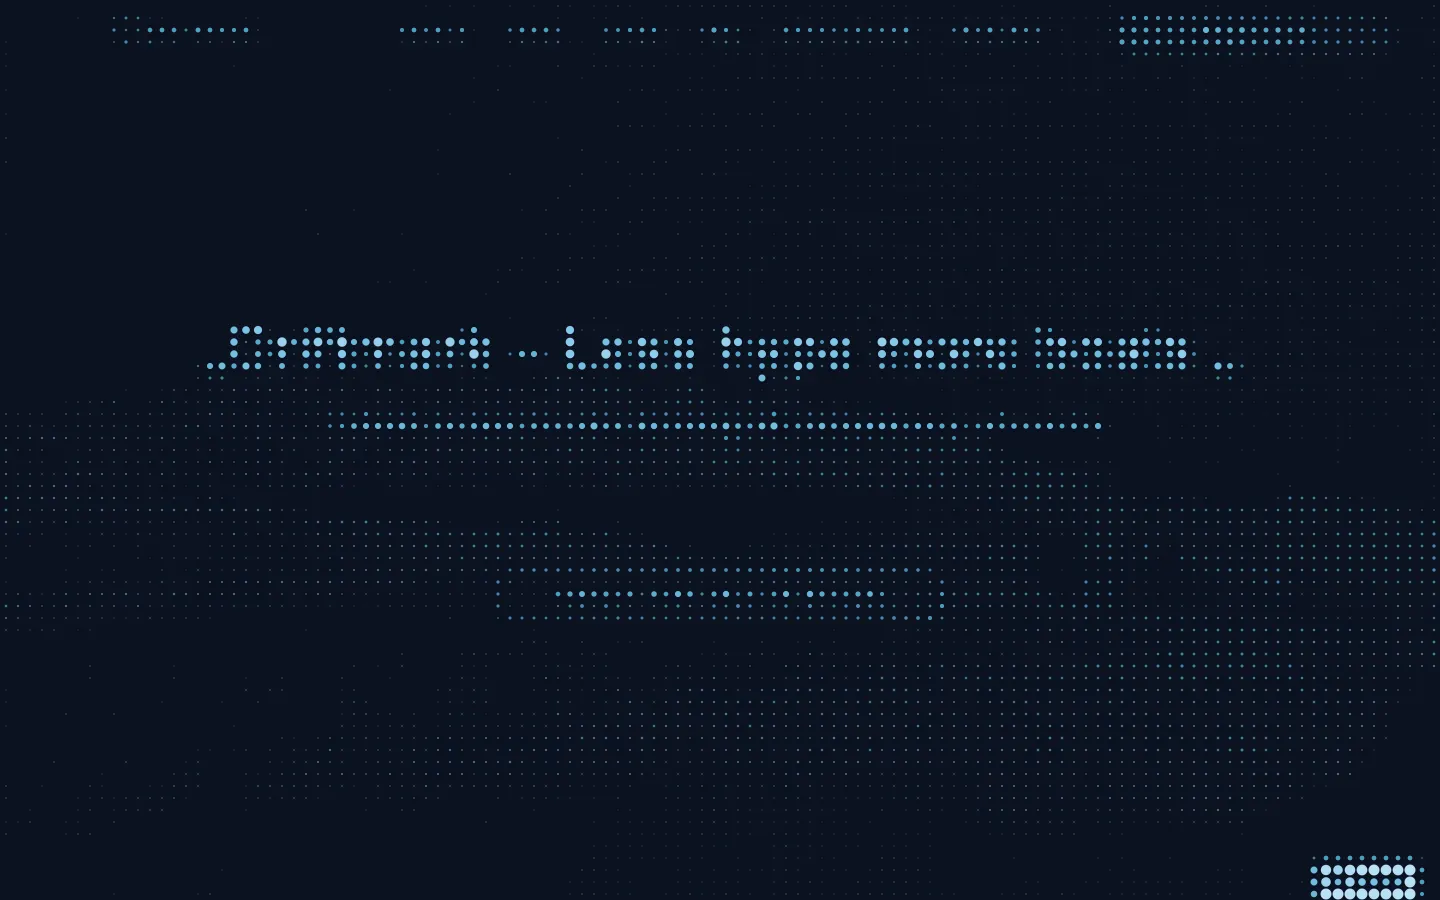
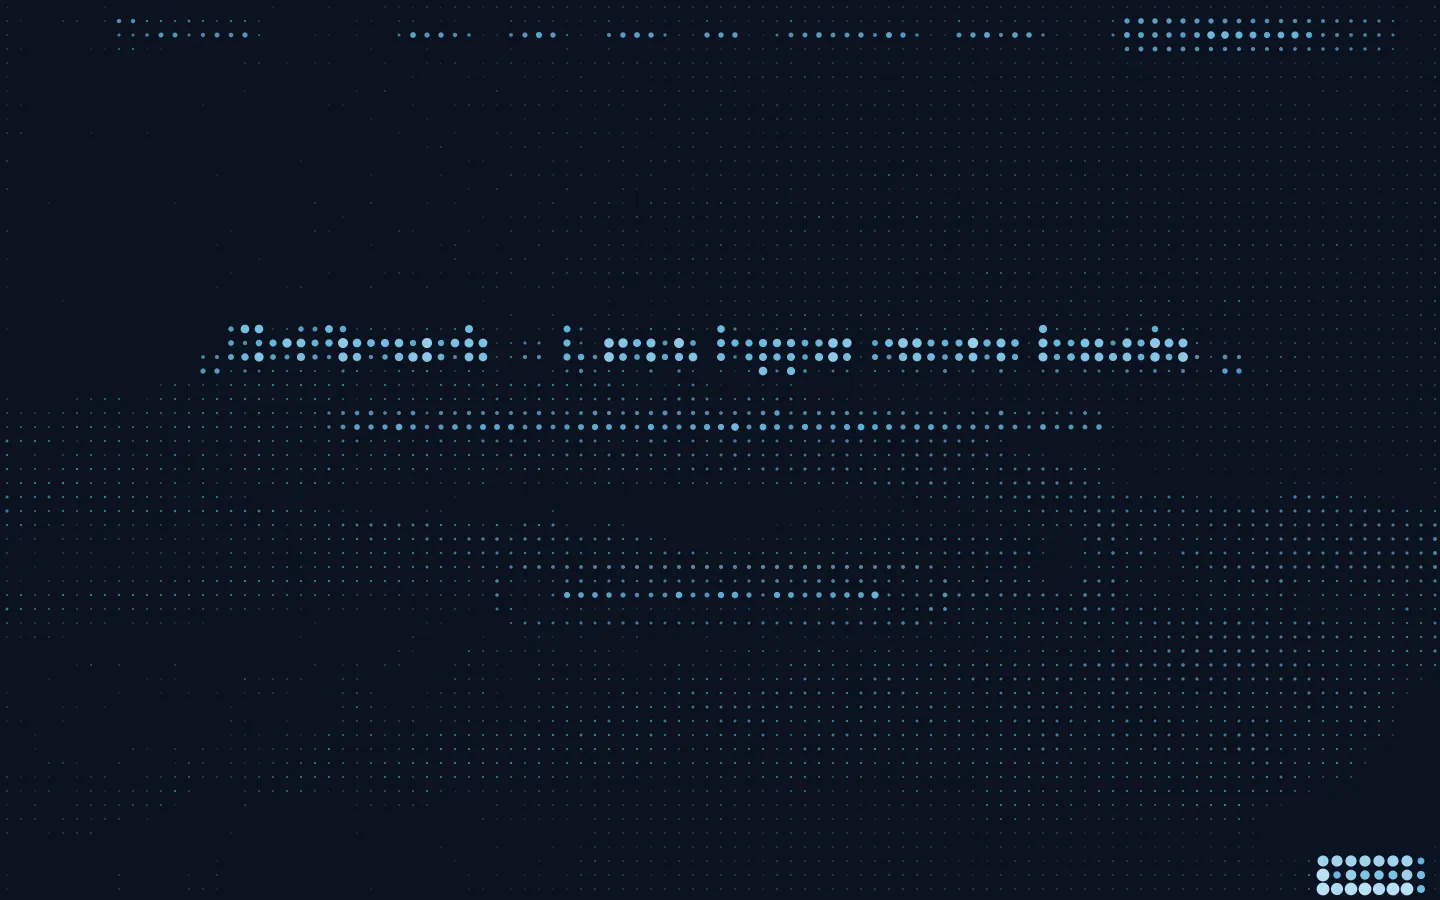
fix(lab): halftone widoczny w kadrze + widoczna sekcja faktow (runda 2)
Dwie uwagi wlasciciela z odbioru:
- halftone 'praktycznie nie widac, zaczyna sie za szybko': okno wywolania
  zremapowane (raster trzyma pelna moc do p=0.4, domyka sie przy 0.85;
  CSS przycina opacity do [0,1]), span figury 0.9, raster grubszy (step 14)
- fakty 'nic tu nie ma': prototyp byl samym skryptem — dodana sekcja
  'Ta strona jest naszym portfolio' czytajaca web-facts.json: 66 kB JS /
  29,2 kB CSS z paskami wykorzystania budzetu CI, metoda + data pomiaru
  (tsconfig: resolveJsonModule)

diff --git a/components/pages/dev/ProtoLab.tsx b/components/pages/dev/ProtoLab.tsx
@@ -3,6 +3,7 @@ import Seo from '../../common/Seo';
 import Container from '../../common/Container';
 import FlipDotHeading from '../../visuals/flipdot/FlipDotHeading';
 import { useSectionProgress } from '../../../hooks/useSectionProgress';
+import webFacts from '../../../data/content/web-facts.json';
 
 /**
  * PROTOTYP 2: halftone-wywołanie dowodu. Zrzut realizacji wjeżdża jako
@@ -11,10 +12,19 @@ import { useSectionProgress } from '../../../hooks/useSectionProgress';
  * OSTRY zrzut (kontrakt var(--p,1)) — raster to wyłącznie przejście wejścia,
  * dowód nigdy nie zostaje zasłonięty.
  */
+/**
+ * Okno wywołania: raster trzyma pełną moc, aż figura wjedzie ~1/3 w kadr
+ * (p=0.4), a ostry dowód domyka się przy ~3/4 widoczności (p=0.85) —
+ * bez tego remapu przejście kończyło się, zanim ktokolwiek je zobaczył
+ * (uwaga właściciela z odbioru 1. wersji). CSS sam przycina opacity do [0,1].
+ */
+const DEVELOP = (invert: boolean) =>
+  invert ? 'calc(1 - (var(--p, 1) - 0.4) / 0.45)' : 'calc((var(--p, 1) - 0.4) / 0.45)';
+
 const HalftoneProto: React.FC = () => {
   // Postęp mierzy FIGURA, nie sekcja: --p sekcji dobija do ~0.7 zanim figura
   // wejdzie w kadr i całe wywołanie działoby się poza ekranem.
-  const figRef = useSectionProgress<HTMLElement>(0.6);
+  const figRef = useSectionProgress<HTMLElement>(0.9);
   return (
     <section className="bg-deep-dark py-24 md:py-32" data-proto="halftone">
       <Container>
@@ -35,7 +45,7 @@ const HalftoneProto: React.FC = () => {
             loading="lazy"
             decoding="async"
             className="w-full"
-            style={{ opacity: 'var(--p, 1)' }}
+            style={{ opacity: DEVELOP(false) }}
           />
           <img
             src="/assets/images/realizacje/driftmark-sklep-home-halftone.webp"
@@ -46,7 +56,7 @@ const HalftoneProto: React.FC = () => {
             loading="lazy"
             decoding="async"
             className="pointer-events-none absolute inset-0 h-full w-full"
-            style={{ opacity: 'calc(1 - var(--p, 1))' }}
+            style={{ opacity: DEVELOP(true) }}
           />
           <figcaption className="sr-only">
             Raster kropek wywołuje się do ostrego zrzutu przy przewijaniu.
@@ -64,6 +74,91 @@ const HalftoneProto: React.FC = () => {
  * właściwe strony — każdy w warunkach zbliżonych do docelowych (ciemny pas,
  * realne rozmiary typografii). Usunąć lub wyłączyć przed merge do main.
  */
+/**
+ * PROTOTYP 3: sekcja uczciwych faktów — czyta WYŁĄCZNIE data/content/
+ * web-facts.json (pipeline: scripts/fetch-web-facts.mjs). Każda liczba ma
+ * metodę i datę pomiaru; zero metryk per-user i zero liczb z ręki.
+ * Paski = wykorzystanie budżetu wymuszanego w CI (skala odwrócona:
+ * mało = dobrze) — wypełnienie rośnie z --p (ruch podaje pomiar i gaśnie).
+ */
+const FactsProto: React.FC = () => {
+  const sectionRef = useSectionProgress<HTMLElement>(0.75);
+  const date = new Date(webFacts.generatedAt).toLocaleDateString('pl-PL', {
+    day: 'numeric',
+    month: 'long',
+    year: 'numeric',
+  });
+  const rows = webFacts.budget
+    ? [
+        {
+          label: 'Skrypty strony głównej',
+          value: webFacts.budget.jsKB,
+          limit: webFacts.budget.jsLimitKB,
+        },
+        {
+          label: 'Style (CSS)',
+          value: webFacts.budget.cssKB,
+          limit: webFacts.budget.cssLimitKB,
+        },
+      ]
+    : [];
+  return (
+    <section ref={sectionRef} className="bg-light-gray py-24 md:py-32" data-proto="facts">
+      <Container>
+        <div className="max-w-3xl">
+          <h2 className="text-3xl font-extrabold tracking-tight text-balance text-dark md:text-4xl">
+            Ta strona jest naszym portfolio.
+          </h2>
+          <p className="mt-5 text-lg leading-relaxed text-gray-700">
+            Nie obiecujemy szybkich stron — pokazujemy pomiar tej, na której jesteś. Liczby pochodzą
+            z narzędzi, które blokują nam wydanie strony, gdy budżet pęknie.
+          </p>
+        </div>
+
+        <dl className="mt-12 max-w-3xl space-y-10">
+          {rows.map((row) => {
+            const pct = Math.round(((row.value ?? 0) / (row.limit || 1)) * 100);
+            return (
+              <div key={row.label}>
+                <div className="flex flex-wrap items-baseline justify-between gap-x-6">
+                  <dt className="text-[15px] font-bold text-dark">{row.label}</dt>
+                  <dd className="text-3xl font-extrabold tracking-tight tabular-nums text-dark md:text-4xl">
+                    {String(row.value).replace('.', ',')}&nbsp;kB
+                    <span className="ml-3 text-base font-bold text-gray-500">
+                      z {row.limit} kB budżetu
+                    </span>
+                  </dd>
+                </div>
+                {/* Pasek wykorzystania budżetu — mało = dobrze; wypełnia się z --p. */}
+                <div
+                  className="mt-3 h-2 overflow-hidden rounded-full bg-gray-200"
+                  role="img"
+                  aria-label={`Wykorzystanie budżetu: ${pct} procent`}
+                >
+                  <div
+                    className="h-full rounded-full bg-secondary"
+                    style={{
+                      width: `${pct}%`,
+                      transform: 'scaleX(calc(var(--p, 1)))',
+                      transformOrigin: 'left',
+                    }}
+                  />
+                </div>
+              </div>
+            );
+          })}
+        </dl>
+
+        <p className="mt-10 max-w-3xl text-sm leading-relaxed text-gray-500">
+          Pomiar: rozmiar po kompresji, sprawdzany automatycznie przy każdym wydaniu (size-limit).
+          Stan na {date}. Dla porównania: jedno zdjęcie z telefonu waży zwykle kilkadziesiąt razy
+          więcej.
+        </p>
+      </Container>
+    </section>
+  );
+};
+
 const ProtoLab: React.FC = () => (
   <div className="bg-white font-sans">
     <Seo
@@ -109,10 +204,12 @@ const ProtoLab: React.FC = () => (
 
     <HalftoneProto />
 
-    {/* Wybieg — przestrzeń pod prototyp 3 (fakty). */}
-    <section className="min-h-[50vh] bg-white py-24">
+    <FactsProto />
+
+    {/* Wybieg pod ostatnią sekcją — pełny scroll-through dla hydratacji. */}
+    <section className="min-h-[40vh] bg-white py-24">
       <Container>
-        <p className="text-gray-500">Slot: fakty (prototyp 3).</p>
+        <p className="text-gray-500">Koniec laboratorium.</p>
       </Container>
     </section>
   </div>
